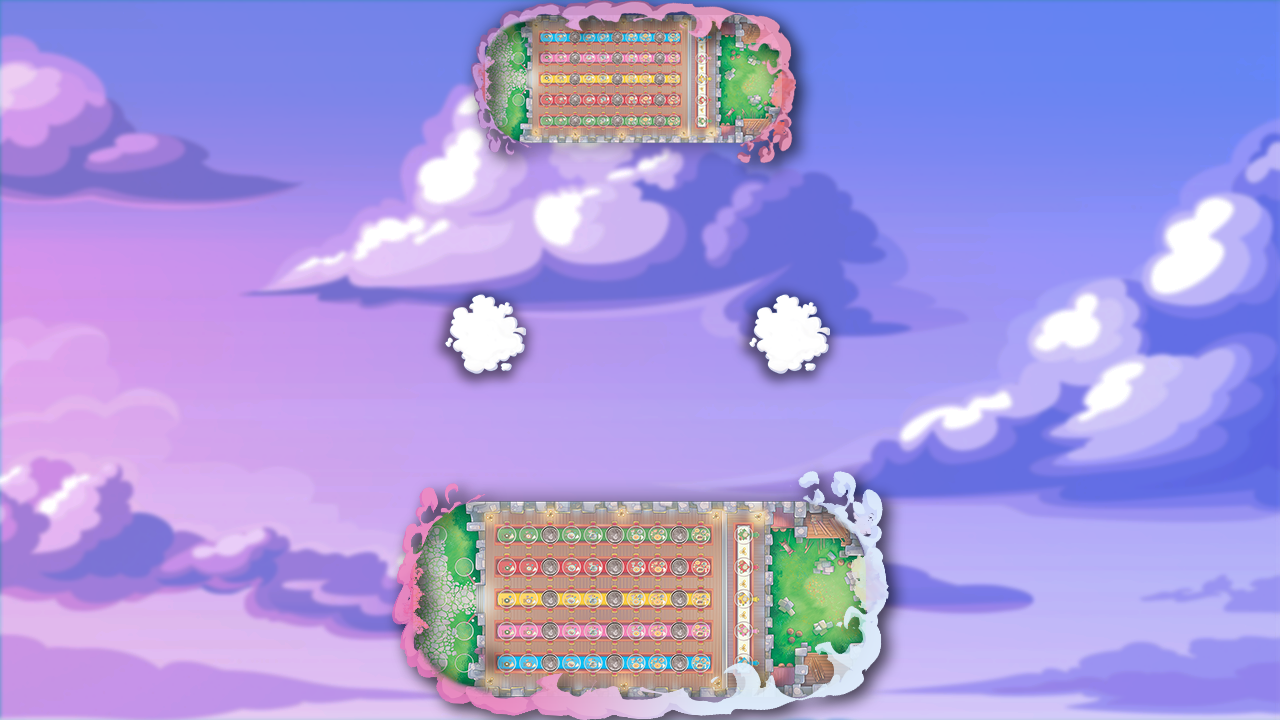
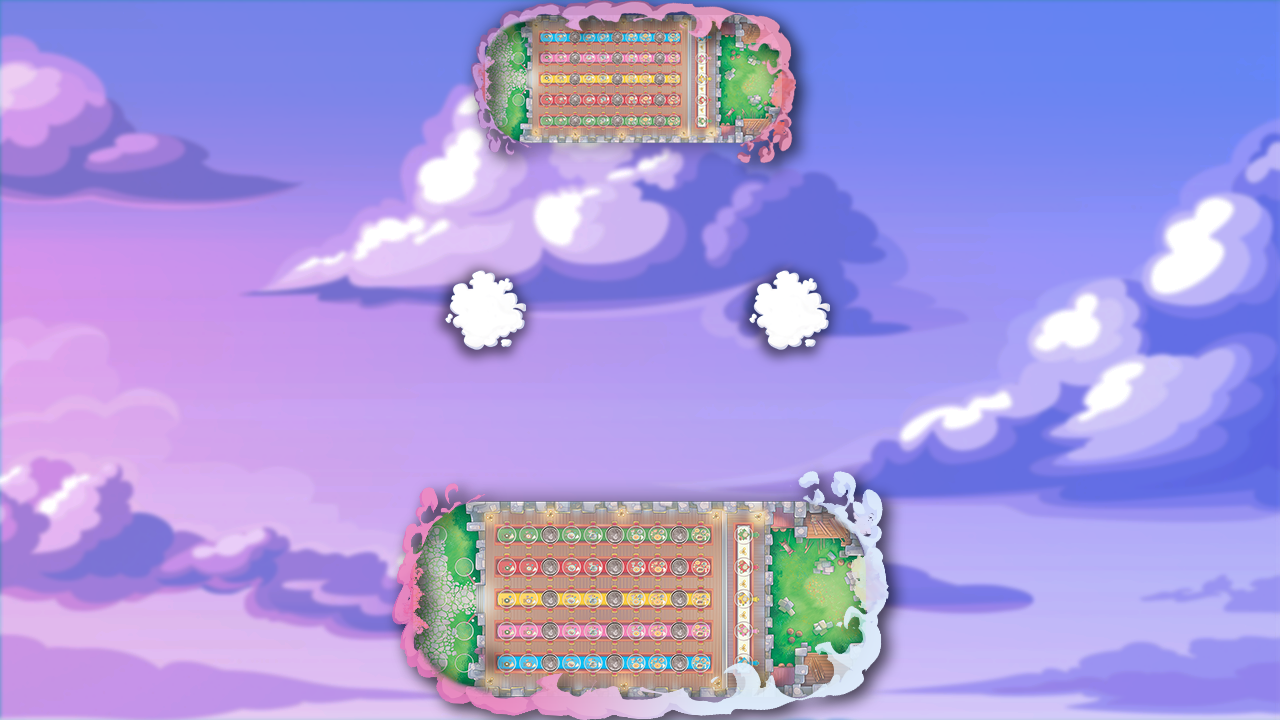
Fix cloud position

Changed region(s): [[0.3438, 0.3667, 0.4375, 0.55], [0.5625, 0.3667, 0.6562, 0.55]]

diff --git a/client/src/main/java/it/polimi/ingsw/javangers/client/view/gui/GUIGameDisplayer.java b/client/src/main/java/it/polimi/ingsw/javangers/client/view/gui/GUIGameDisplayer.java
@@ -249,10 +249,10 @@ public class GUIGameDisplayer {
         Image image = new Image((GUIGameDisplayer.class.getResource("images/CloudToAddOnDashboard.png")).toString());;
         ImageView imv = new ImageView();
         imv.setImage(image);
-        imv.setFitWidth(100);
-        imv.setFitHeight(94);
-        imv.setX(570);
-        imv.setY(250);
+        imv.setFitWidth(125);
+        imv.setFitHeight(125);
+        imv.setX(577);
+        imv.setY(251);
         this.anchorPane.getChildren().add(imv);
     }
 
